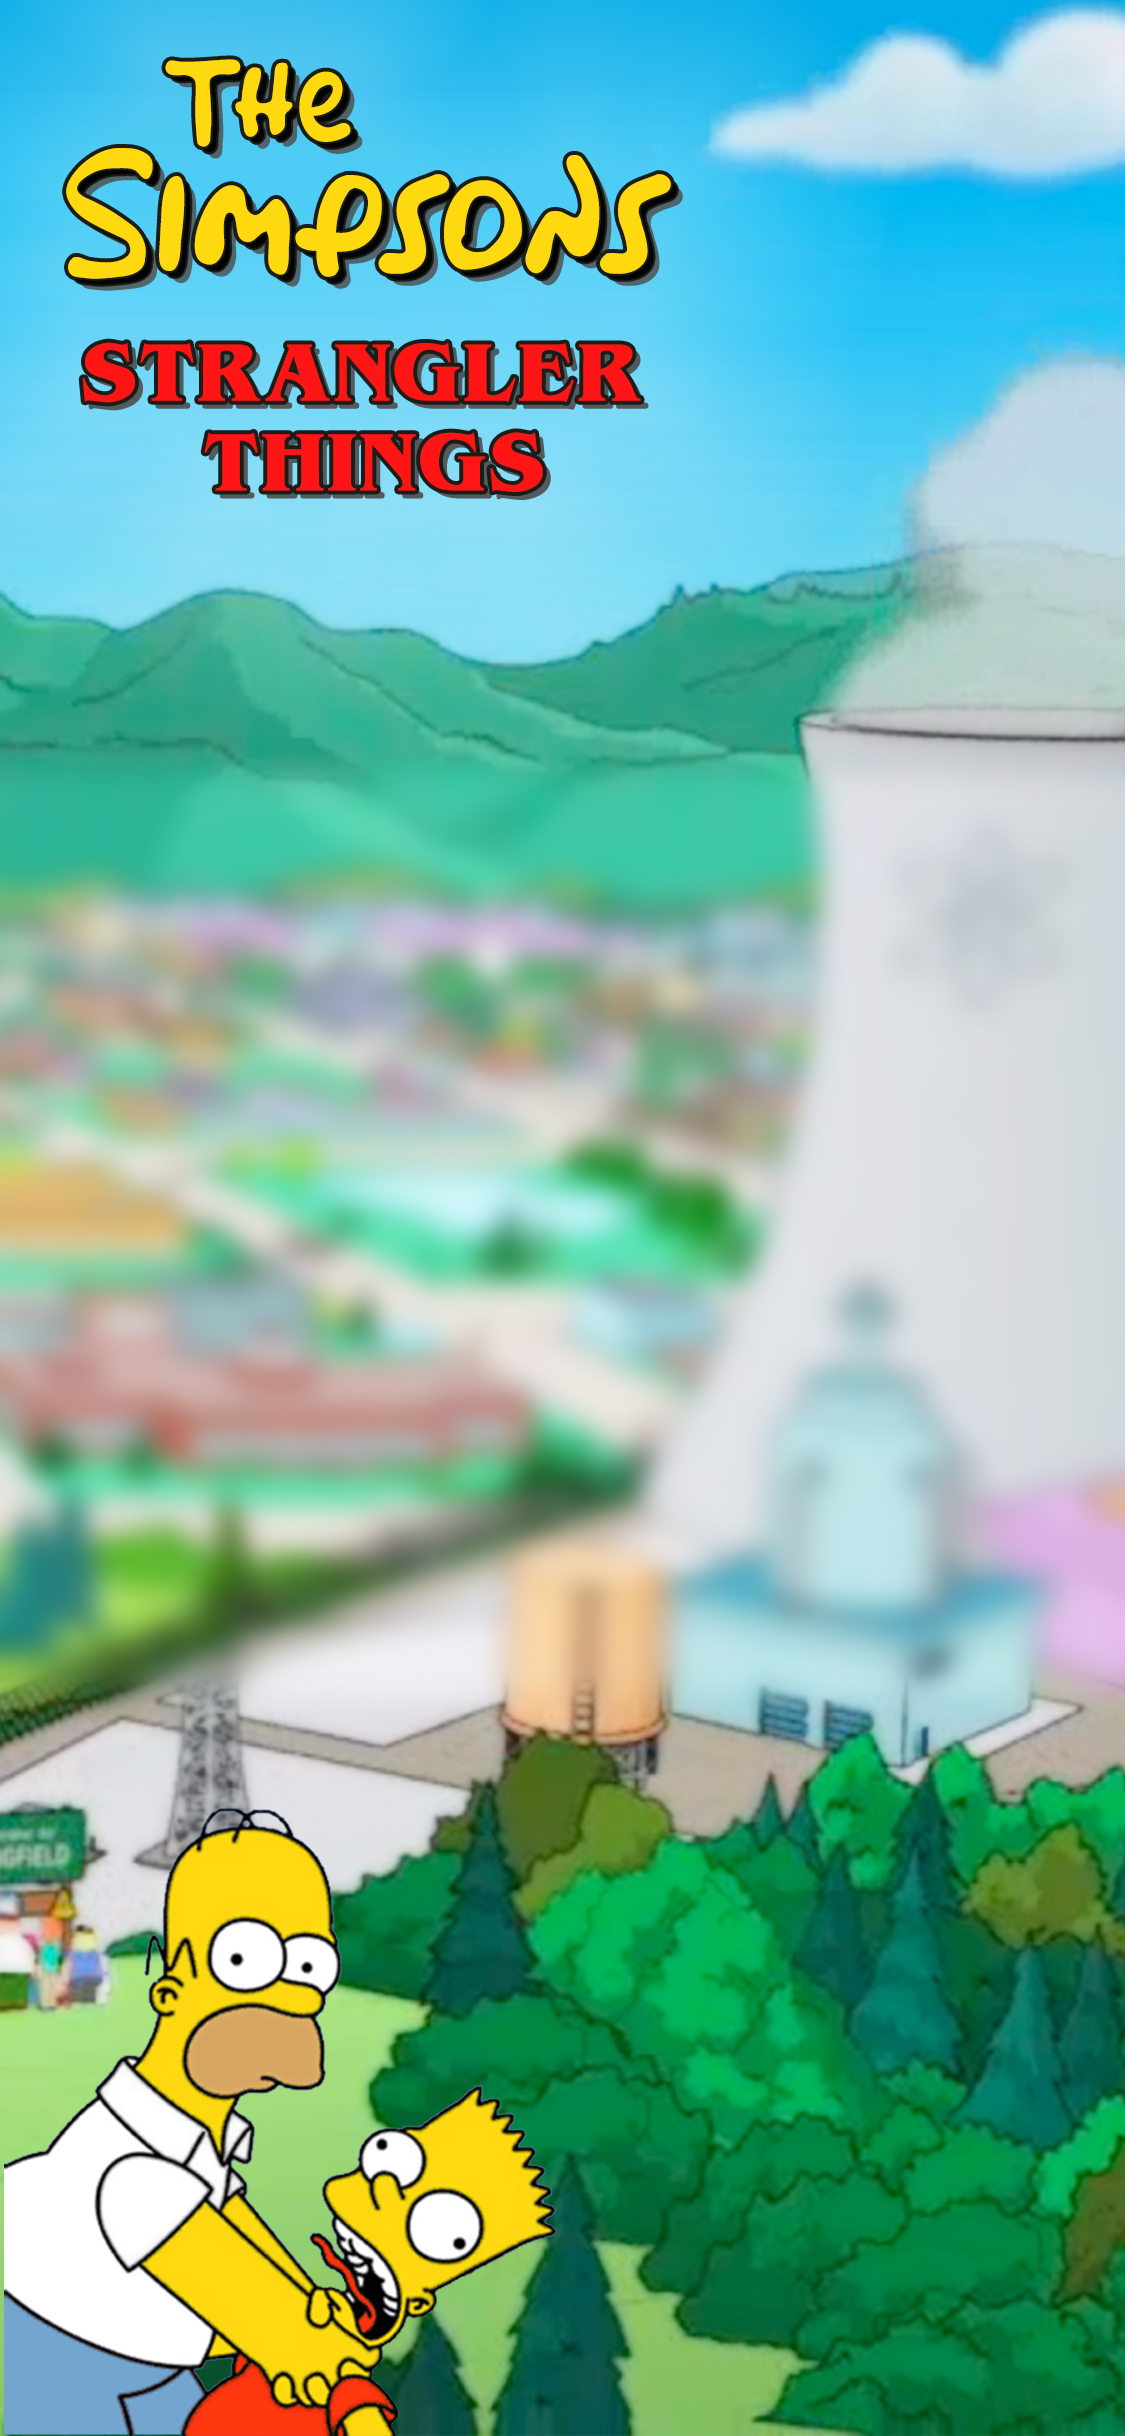
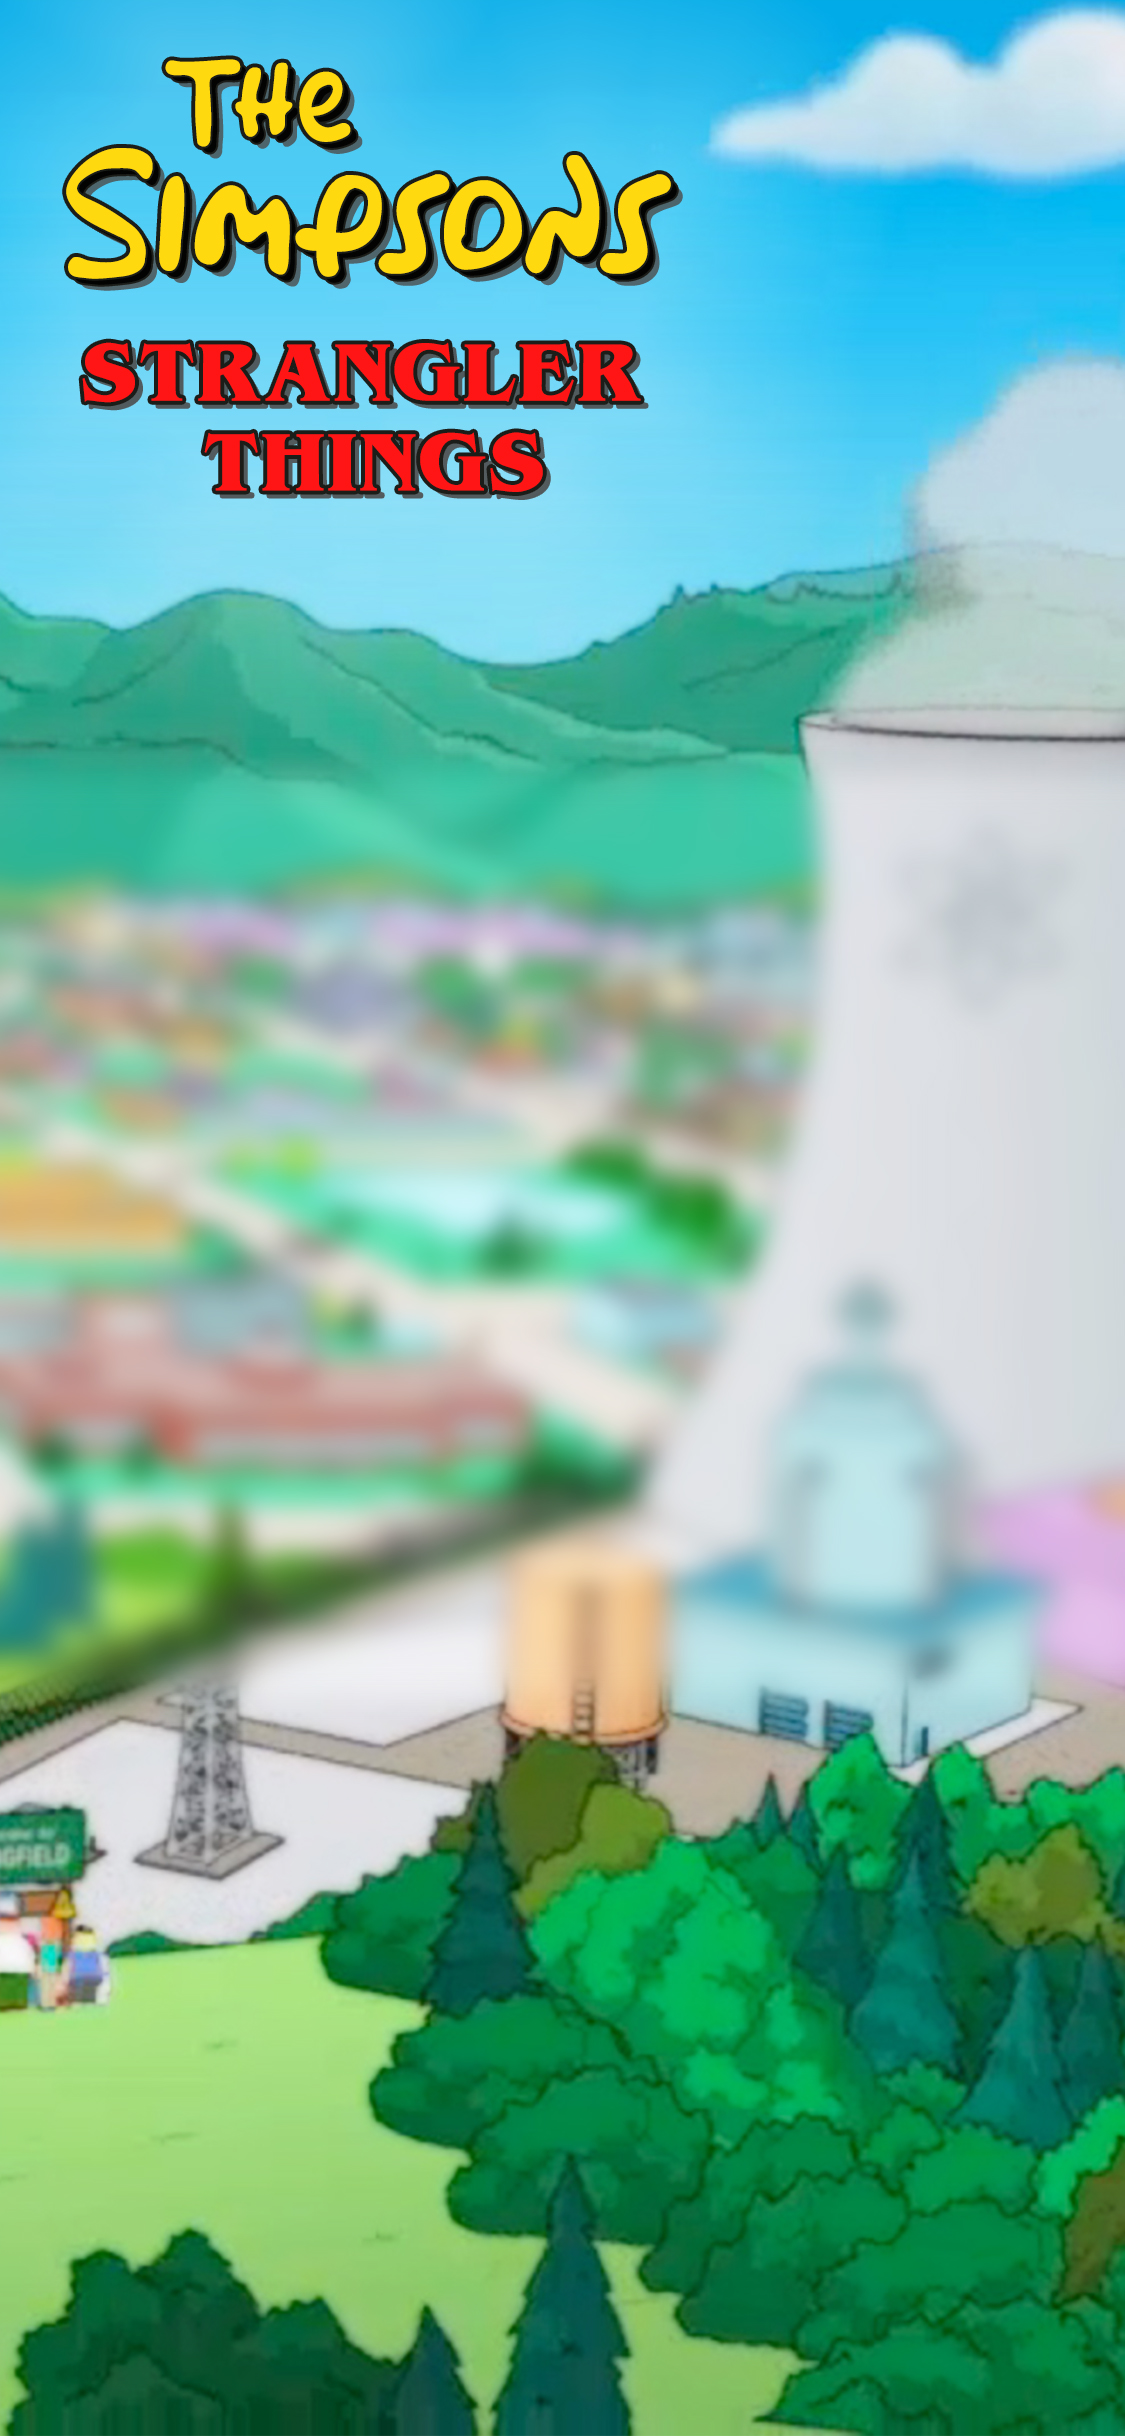
Suppression bart et homer sur title screen

Changed region(s): [[0.0, 0.7488, 0.4978, 1.0]]

diff --git a/src/components/Game.js b/src/components/Game.js
@@ -219,7 +219,7 @@ class Game extends Component {
         {this.state.gameRuleDisplay && (
           <GameRules ruleModalDisplay={this.ruleModalDisplay} />
         )}
-        {this.state.win && <ModalWin initializeGame={this.initializeGame} />}
+        {this.state.win && <ModalWin initializeGame={this.initializeGame}  />}
         {this.state.lose && <ModalLose initializeGame={this.initializeGame} />}
       </div>
     );

diff --git a/src/components/Menu.css b/src/components/Menu.css
@@ -9,7 +9,7 @@ nav ul li {
     text-align: center;
     list-style: none;
     font-family: 'Homer_Simpson';
-    font-size: 4em;
+    font-size: 3.5em;
     font-weight: 600;
     color: #FEDE2B;
     text-shadow: 2px 2px 2px 3px black;
@@ -21,5 +21,13 @@ ul {
 }
 
 nav {
-    margin-top: 70%;
+    margin-top: 65%;
+}
+
+a {
+    color: rgb(255, 230, 0);
+}
+
+a:visited {
+    color: rgb(255, 230, 0);
 }
